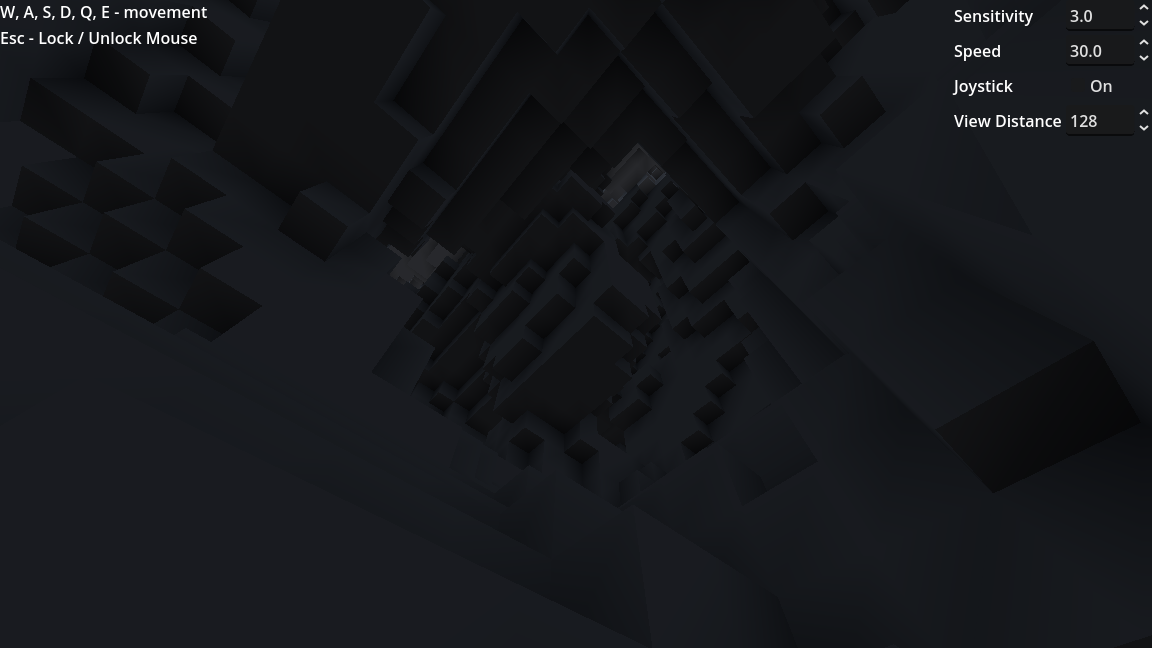
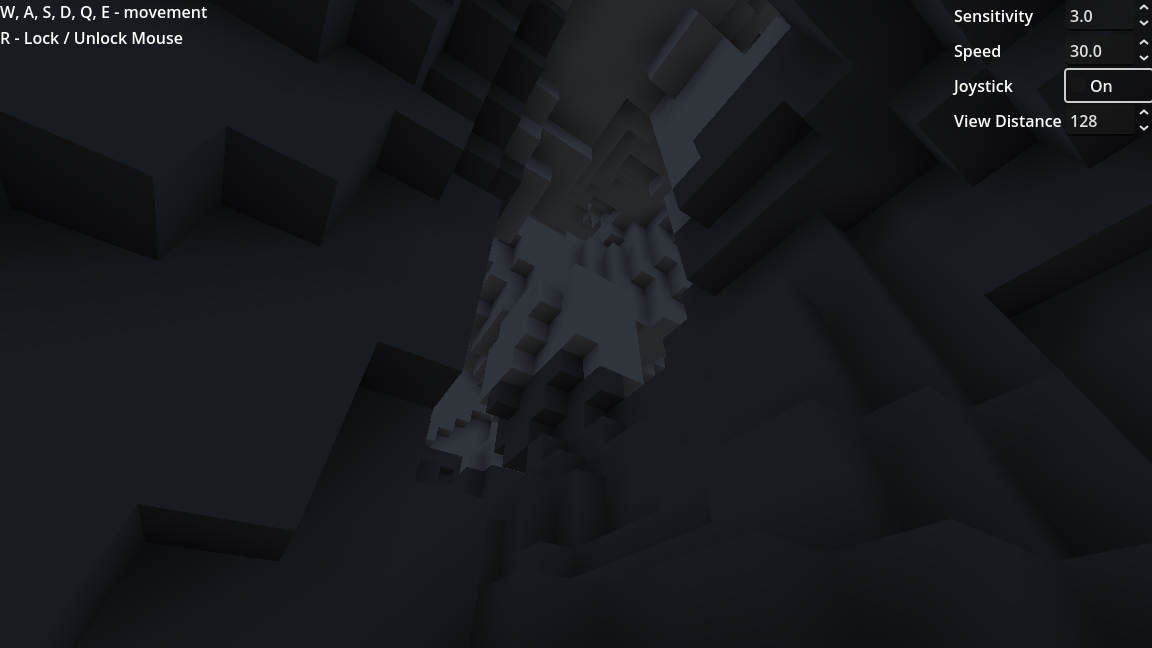
Better Web Support - Replaced FastNoise2 with FastNoise because it doesn't work in the web version. - Changed the cursor lock key from Esc to R because Esc unlocks the cursor by default in the browser. - Made water less transparent because it looked too transparent in the web version. - Made the joy

diff --git a/README.md b/README.md
@@ -22,8 +22,7 @@ Try in your browser: TODO
 
 ## 🔄 Compatibility
 
-- Godot - 4.4.1+
-- Voxel Tools - 1.4.1+
+- Voxel Tools - 1.4.1+ double precision build
 
 ## 🧩 Used Addons
 
